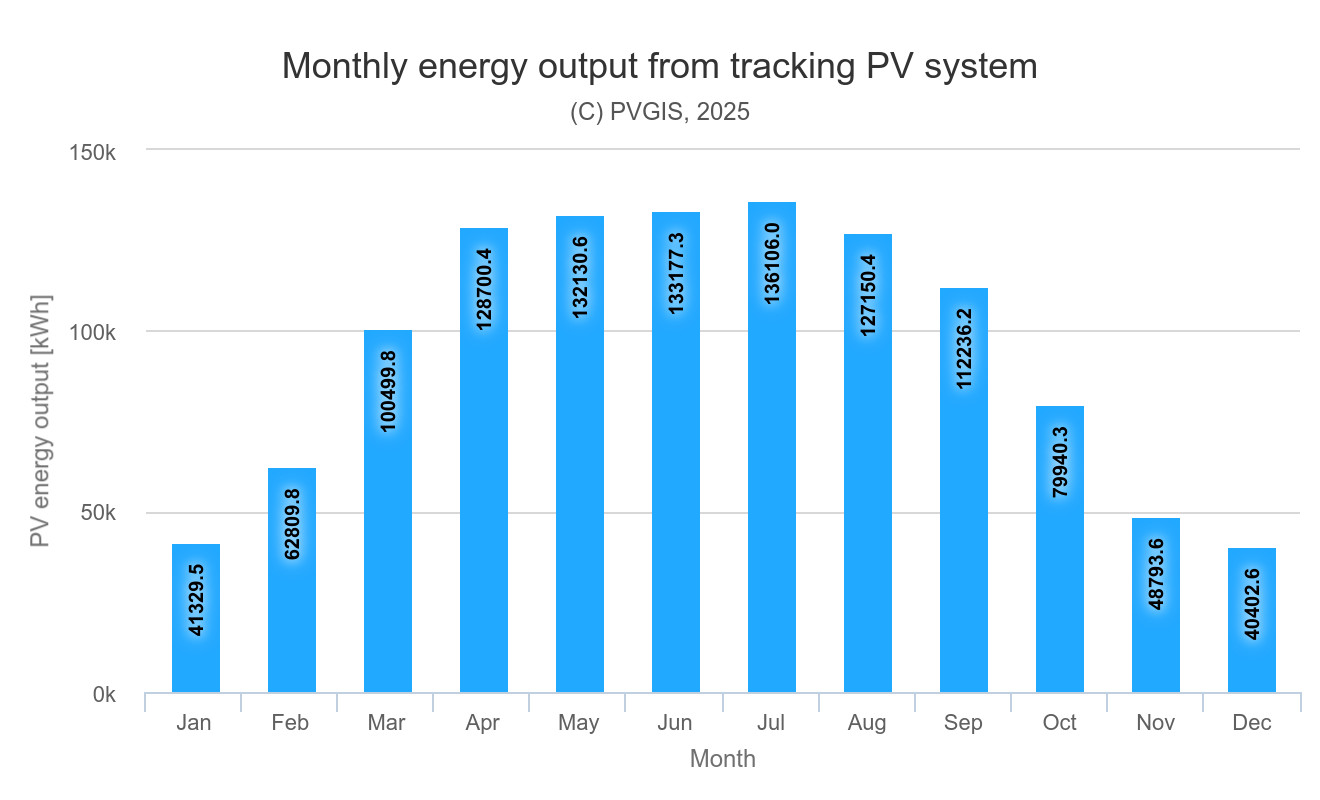
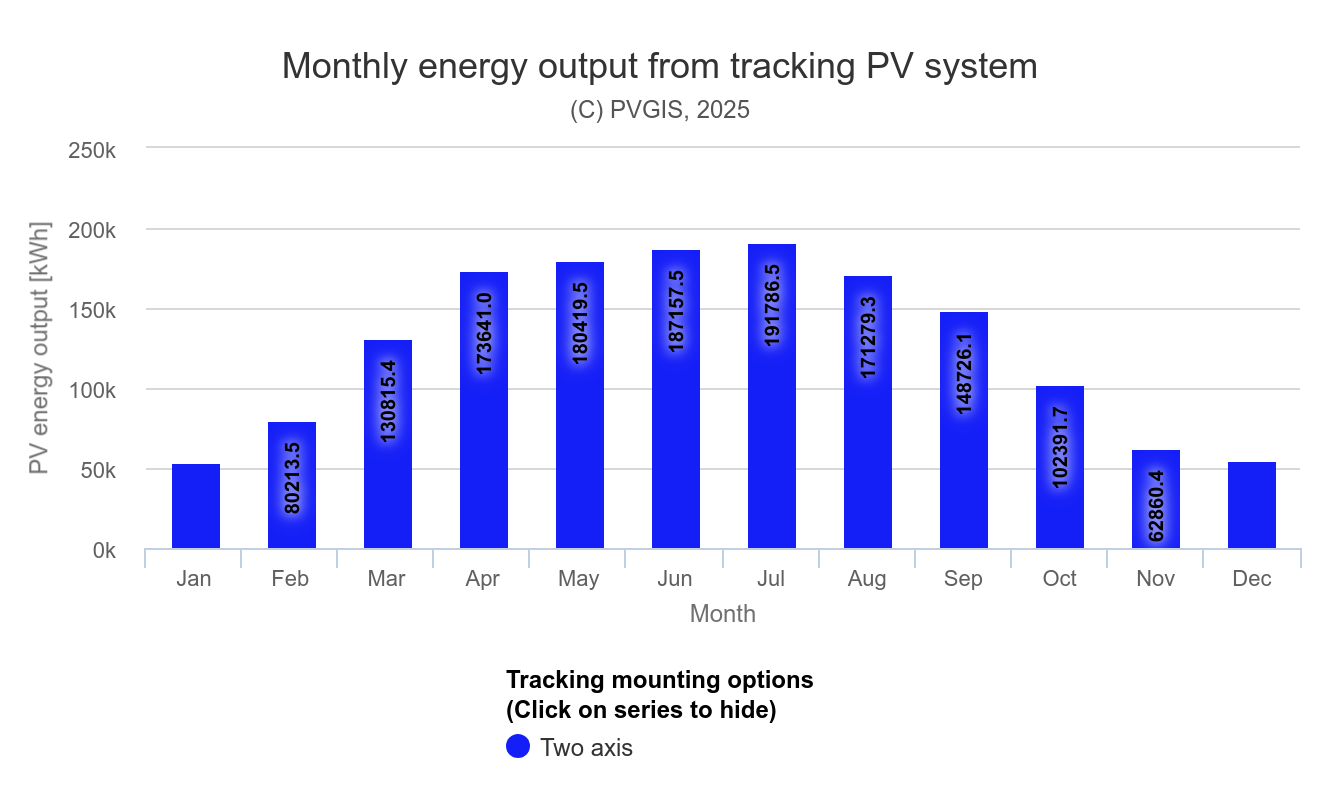
Update Meaux PV energy

diff --git a/dashboard.py b/dashboard.py
@@ -454,19 +454,29 @@ if run_simulation:
                     # PV Production Chart Section
                     st.write("**☀ Monthly PV Production (Meaux Location):**")
                     try:
-                        st.image("monthly_pv_meaux.png", caption="Monthly PV Energy Production", use_container_width=True)
+                        # Create 2x2 grid layout for the images
+                        col1, col2 = st.columns(2)
+                        
+                        with col1:
+                            st.image("meaux_maps_location.png", caption="Meaux Location Map", use_container_width=True)
+                            st.image("meaux_simulation_output.png", caption="Simulation Output", use_container_width=True)
+                        
+                        with col2:
+                            st.image("meaux_pv_config.png", caption="PV Configuration", use_container_width=True)
+                            st.image("monthly_pv_meaux.png", caption="Monthly PV Energy Production", use_container_width=True)
+                        
                         st.info("📍 **PV Installation with tracking system**: Analysis based on 1 hectare solar panel surface area in Meaux. Data source: PVGIS (Photovoltaic Geographical Information System)")
-                    except FileNotFoundError:
-                        st.warning("⚠ PV production chart 'monthly_pv_meaux.png' not found")
+                    except FileNotFoundError as e:
+                        st.warning(f"⚠ One or more PV images not found: {str(e)}")
                     
                     st.write("**🔋 Monthly Energy Coverage:**")
                     
                     # Chart 2: Energy Coverage (Full Width)
                     pv_energy_kwh = {
-                        "January": 41329.5, "February": 62809.8, "March": 100499.8,
-                        "April": 128700.4, "May": 132130.6, "June": 133177.3,
-                        "July": 136106.0, "August": 127150.4, "September": 112236.2,
-                        "October": 79940.3, "November": 48793.6, "December": 40402.6
+                        "January": 53458.33, "February": 80213.5, "March": 130815.4,
+                        "April": 173641.0, "May": 180419.5, "June":187157.5 ,
+                        "July": 191786.5, "August": 171279.3, "September": 148726.1,
+                        "October": 102391.7, "November": 62860.4, "December": 55020.23
                     }
                     pv_energy_mwh = {month: kwh / 1000 for month, kwh in pv_energy_kwh.items()}
                     
